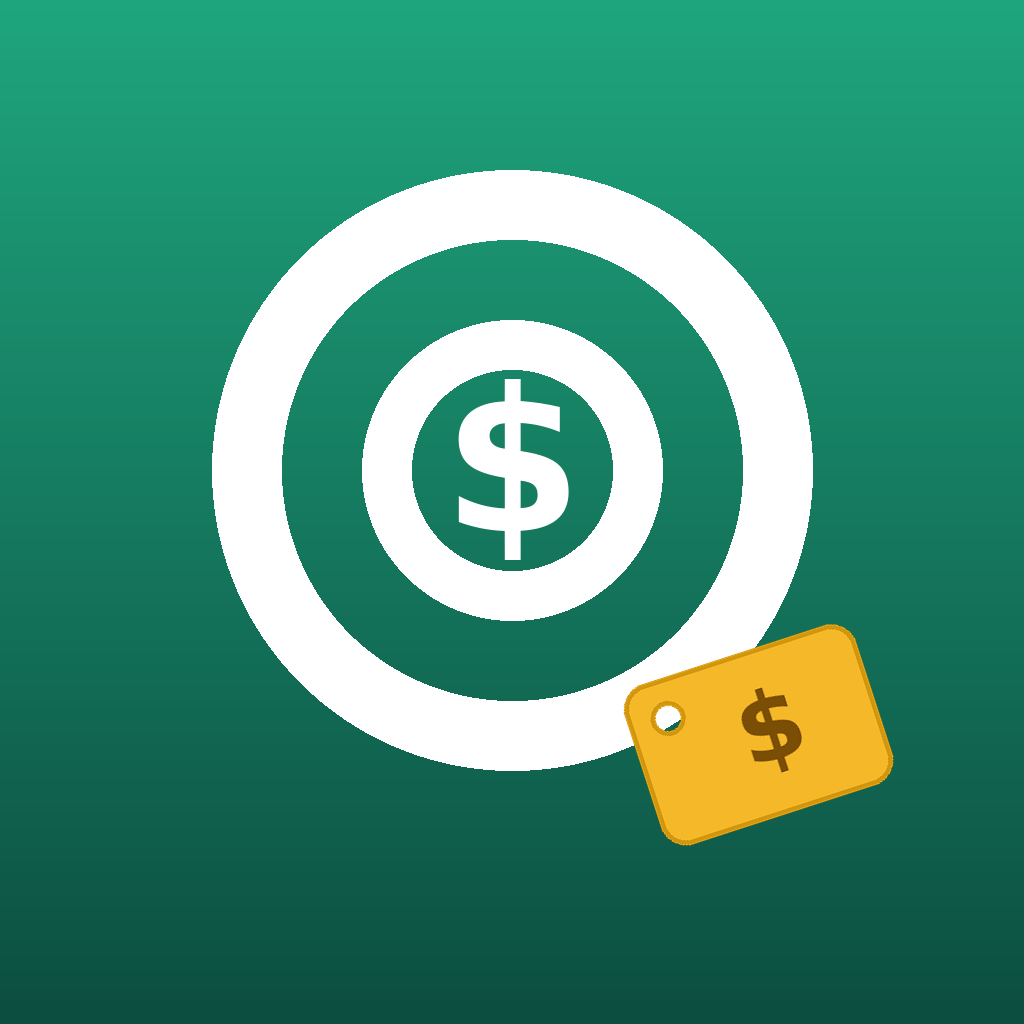
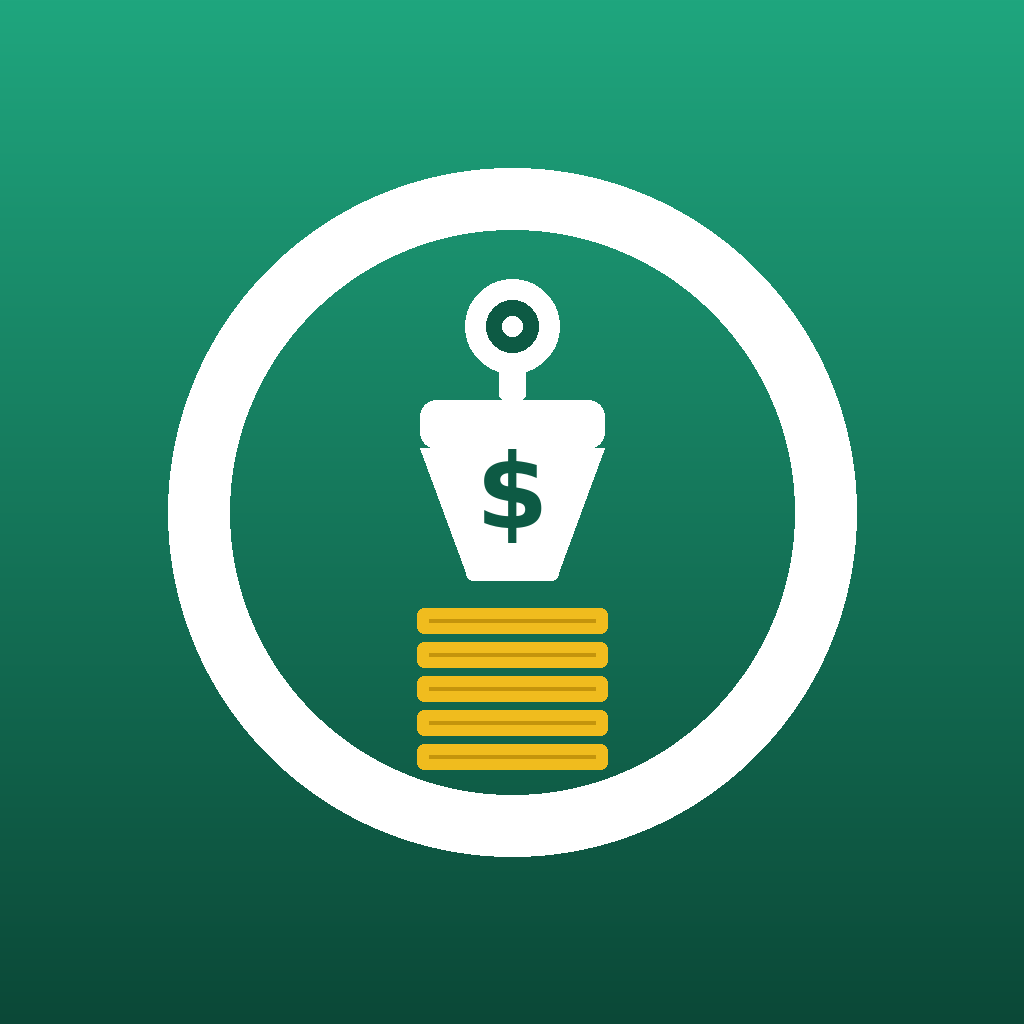
Add files via upload

diff --git a/index.html b/index.html
@@ -6,7 +6,7 @@
 <title>Nozzly — Costo, precio y gestión de impresión 3D</title>
 <link rel="icon" type="image/png" href="icon.png">
 <link rel="apple-touch-icon" href="icon.png">
-<meta name="description" content="Calcula el precio real de tus impresiones 3D y gestiona impresoras, filamentos y figuras. Descárgala gratis para iPhone y iPad.">
+<meta name="description" content="Calcula el precio real de tus impresiones 3D y gestiona impresoras, filamentos y figuras. Disponible para iPhone y iPad, y pronto en Android.">
 <style>
   * { box-sizing: border-box; margin: 0; padding: 0; }
   html { scroll-behavior: smooth; }
@@ -19,6 +19,7 @@
   .nav { display: flex; align-items: center; justify-content: space-between; padding: 14px 0; }
   .brand { display: flex; align-items: center; gap: 11px; font-weight: 700; font-size: 19px; color: #0C5B45; }
   .brand img { width: 36px; height: 36px; border-radius: 9px; }
+  .nav .brand { padding-left: 10px; }
   .nav-links a { margin-left: 20px; color: #0C5B45; font-size: 14px; font-weight: 500; transition: opacity .2s; }
   .nav-links a:hover { opacity: .6; }
 
@@ -123,6 +124,27 @@
   .pgrid span { font-size: 13px; opacity: .82; }
   .premium-card .appstore-btn { background: #fff; color: #0b3d30; }
   .premium-card .appstore-btn svg { fill: #0b3d30; }
+  .premium-card .premium-ctas { display: flex; align-items: center; justify-content: center; gap: 14px; flex-wrap: wrap; }
+  .premium-card .playbadge { background: rgba(255,255,255,.16); color: #fff; }
+  .premium-card .playbadge svg { fill: #fff; }
+
+  .android { padding: 80px 0; background: #f4faf8; text-align: center; }
+  .android .badge-soon { display: inline-block; background: #e3f3ec; color: #0C5B45;
+                         font-weight: 700; font-size: 12px; letter-spacing: 1px; padding: 6px 14px;
+                         border-radius: 30px; margin-bottom: 14px; }
+  .android h2 { font-size: 30px; color: #0C5B45; margin-bottom: 8px; }
+  .android .lead { color: #5a6b66; margin-bottom: 36px; max-width: 560px; margin-left: auto; margin-right: auto; }
+  .android .lead b { color: #0f6b52; }
+  .ashots { display: flex; justify-content: center; gap: 20px; flex-wrap: wrap; margin-bottom: 32px; }
+  .ashots img { width: 224px; border-radius: 18px; box-shadow: 0 16px 40px rgba(12,91,69,.16);
+                transition: transform .25s; }
+  .ashots img:hover { transform: translateY(-6px); }
+  .playbadge { display: inline-flex; align-items: center; gap: 11px; background: #000; color: #fff;
+               padding: 11px 20px; border-radius: 13px; opacity: .92; cursor: default; }
+  .playbadge svg { width: 23px; height: 23px; fill: #fff; }
+  .playbadge .ab-txt { display: flex; flex-direction: column; line-height: 1.05; text-align: left; }
+  .playbadge .ab-txt small { font-size: 11px; font-weight: 400; opacity: .85; }
+  .playbadge .ab-txt b { font-size: 17px; font-weight: 600; }
 
   @media (max-width: 820px) {
     .wrap { padding: 0 22px; }
@@ -149,6 +171,7 @@
     <div class="nav-links">
       <a href="#try">Pruébalo</a>
       <a href="#features">Funciones</a>
+      <a href="#android">Android</a>
       <a href="#premium">Premium</a>
       <a href="privacy.html">Privacidad</a>
       <a class="nav-dl" href="https://apps.apple.com/app/nozzly/id6780641595" target="_blank" rel="noopener">Descargar</a>
@@ -168,9 +191,13 @@
           <svg viewBox="0 0 384 512" aria-hidden="true"><path d="M318.7 268.7c-.2-36.7 16.4-64.4 50-84.8-18.8-26.9-47.2-41.7-84.7-44.6-35.5-2.8-74.3 20.7-88.5 20.7-15 0-49.4-19.7-76.4-19.7C63.3 141.2 4 184.8 4 273.5q0 39.3 14.4 81.2c12.8 36.7 59 126.7 107.2 125.2 25.2-.6 43-17.9 75.8-17.9 31.8 0 48.3 17.9 76.4 17.9 48.6-.7 90.4-82.5 102.6-119.3-65.2-30.7-61.7-90-61.7-91.9zm-56.6-164.2c27.3-32.4 24.8-61.9 24-72.5-24.1 1.4-52 16.4-67.9 34.9-17.5 19.8-27.8 44.3-25.6 71.9 26.1 2 49.9-11.4 69.5-34.3z"/></svg>
           <span class="ab-txt"><small>Descargar en la</small><b>App Store</b></span>
         </a>
+        <span class="playbadge" aria-label="Pronto en Google Play">
+          <svg viewBox="0 0 512 512" aria-hidden="true"><path d="M325.3 234.3 104.6 13l280.8 161.2-60.1 60.1zM47 0C34 6.8 25.3 19.2 25.3 35.3v441.3c0 16.1 8.7 28.5 21.7 35.3l256.6-256L47 0zm425.2 225.6-58.9-34.1-65.7 64.5 65.7 64.5 60.1-34.1c18-14.3 18-46.5-1.2-60.8zM104.6 499l220.7-221.3 60.1 60.1L104.6 499z"/></svg>
+          <span class="ab-txt"><small>Pronto en</small><b>Google Play</b></span>
+        </span>
         <a class="cta-ghost" href="#try">Probar la calculadora</a>
       </div>
-      <p class="soon">Disponible para iPhone y iPad · Gratis, con Premium opcional</p>
+      <p class="soon">Disponible para iPhone y iPad · <b>Android el 10 de julio</b> · Gratis, con Premium opcional</p>
     </div>
     <div>
       <div class="phone">
@@ -255,6 +282,25 @@
   </div>
 </section>
 
+<section class="android" id="android">
+  <div class="wrap">
+    <span class="badge-soon reveal">PRÓXIMAMENTE</span>
+    <h2 class="reveal">Pronto también en Android</h2>
+    <p class="lead reveal">La versión para Android llega el <b>10 de julio</b>. La misma app, las mismas funciones, ahora también en Google Play.</p>
+    <div class="ashots reveal">
+      <img src="play1.png" alt="Nozzly para Android — precio de venta" loading="lazy">
+      <img src="play2.png" alt="Nozzly para Android — tus figuras" loading="lazy">
+      <img src="play3.png" alt="Nozzly para Android — filamentos" loading="lazy">
+    </div>
+    <div class="reveal">
+      <span class="playbadge" aria-label="Pronto en Google Play">
+        <svg viewBox="0 0 512 512" aria-hidden="true"><path d="M325.3 234.3 104.6 13l280.8 161.2-60.1 60.1zM47 0C34 6.8 25.3 19.2 25.3 35.3v441.3c0 16.1 8.7 28.5 21.7 35.3l256.6-256L47 0zm425.2 225.6-58.9-34.1-65.7 64.5 65.7 64.5 60.1-34.1c18-14.3 18-46.5-1.2-60.8zM104.6 499l220.7-221.3 60.1 60.1L104.6 499z"/></svg>
+        <span class="ab-txt"><small>Pronto en</small><b>Google Play</b></span>
+      </span>
+    </div>
+  </div>
+</section>
+
 <section class="premium" id="premium">
   <div class="wrap reveal">
     <div class="premium-card">
@@ -269,10 +315,16 @@
         <div><b>Sin límites</b><span>Impresoras, filamentos y figuras ilimitados.</span></div>
         <div><b>Mano de obra y depreciación</b><span>Suma tu tiempo y el desgaste de la máquina al precio.</span></div>
       </div>
-      <a class="appstore-btn" href="https://apps.apple.com/app/nozzly/id6780641595" target="_blank" rel="noopener" aria-label="Descargar Nozzly en la App Store">
-        <svg viewBox="0 0 384 512" aria-hidden="true"><path d="M318.7 268.7c-.2-36.7 16.4-64.4 50-84.8-18.8-26.9-47.2-41.7-84.7-44.6-35.5-2.8-74.3 20.7-88.5 20.7-15 0-49.4-19.7-76.4-19.7C63.3 141.2 4 184.8 4 273.5q0 39.3 14.4 81.2c12.8 36.7 59 126.7 107.2 125.2 25.2-.6 43-17.9 75.8-17.9 31.8 0 48.3 17.9 76.4 17.9 48.6-.7 90.4-82.5 102.6-119.3-65.2-30.7-61.7-90-61.7-91.9zm-56.6-164.2c27.3-32.4 24.8-61.9 24-72.5-24.1 1.4-52 16.4-67.9 34.9-17.5 19.8-27.8 44.3-25.6 71.9 26.1 2 49.9-11.4 69.5-34.3z"/></svg>
-        <span class="ab-txt"><small>Descargar en la</small><b>App Store</b></span>
-      </a>
+      <div class="premium-ctas">
+        <a class="appstore-btn" href="https://apps.apple.com/app/nozzly/id6780641595" target="_blank" rel="noopener" aria-label="Descargar Nozzly en la App Store">
+          <svg viewBox="0 0 384 512" aria-hidden="true"><path d="M318.7 268.7c-.2-36.7 16.4-64.4 50-84.8-18.8-26.9-47.2-41.7-84.7-44.6-35.5-2.8-74.3 20.7-88.5 20.7-15 0-49.4-19.7-76.4-19.7C63.3 141.2 4 184.8 4 273.5q0 39.3 14.4 81.2c12.8 36.7 59 126.7 107.2 125.2 25.2-.6 43-17.9 75.8-17.9 31.8 0 48.3 17.9 76.4 17.9 48.6-.7 90.4-82.5 102.6-119.3-65.2-30.7-61.7-90-61.7-91.9zm-56.6-164.2c27.3-32.4 24.8-61.9 24-72.5-24.1 1.4-52 16.4-67.9 34.9-17.5 19.8-27.8 44.3-25.6 71.9 26.1 2 49.9-11.4 69.5-34.3z"/></svg>
+          <span class="ab-txt"><small>Descargar en la</small><b>App Store</b></span>
+        </a>
+        <span class="playbadge" aria-label="Pronto en Google Play">
+          <svg viewBox="0 0 512 512" aria-hidden="true"><path d="M325.3 234.3 104.6 13l280.8 161.2-60.1 60.1zM47 0C34 6.8 25.3 19.2 25.3 35.3v441.3c0 16.1 8.7 28.5 21.7 35.3l256.6-256L47 0zm425.2 225.6-58.9-34.1-65.7 64.5 65.7 64.5 60.1-34.1c18-14.3 18-46.5-1.2-60.8zM104.6 499l220.7-221.3 60.1 60.1L104.6 499z"/></svg>
+          <span class="ab-txt"><small>Pronto en</small><b>Google Play</b></span>
+        </span>
+      </div>
     </div>
   </div>
 </section>
@@ -282,6 +334,7 @@
     <div class="brand" style="color:#fff;"><img src="icon.png" alt="Nozzly" style="width:30px;height:30px;border-radius:7px;"> Nozzly</div>
     <div class="foot-links">
       <a href="https://instagram.com/nozzly_print" target="_blank" rel="noopener">Instagram</a>
+      <a href="https://www.tiktok.com/@nozzly_print" target="_blank" rel="noopener">TikTok</a>
       <a href="privacy.html">Política de Privacidad</a>
       <a href="terms.html">Términos y Condiciones</a>
       <a href="mailto:[email redacted]">Contacto</a>